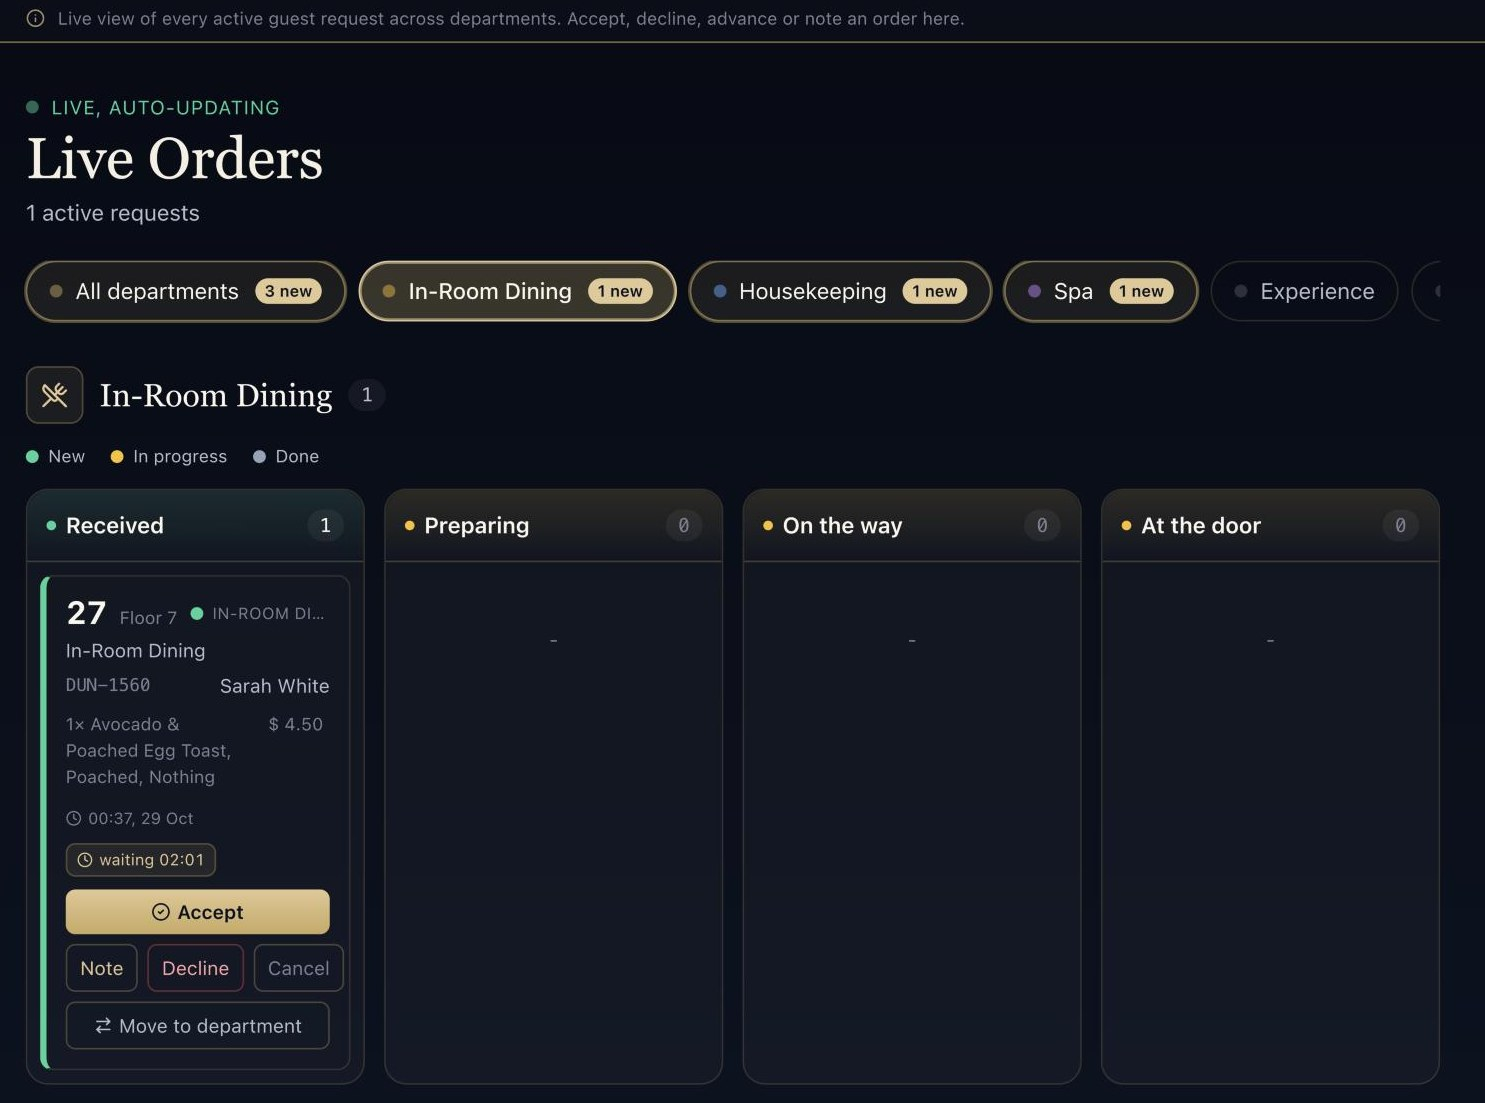
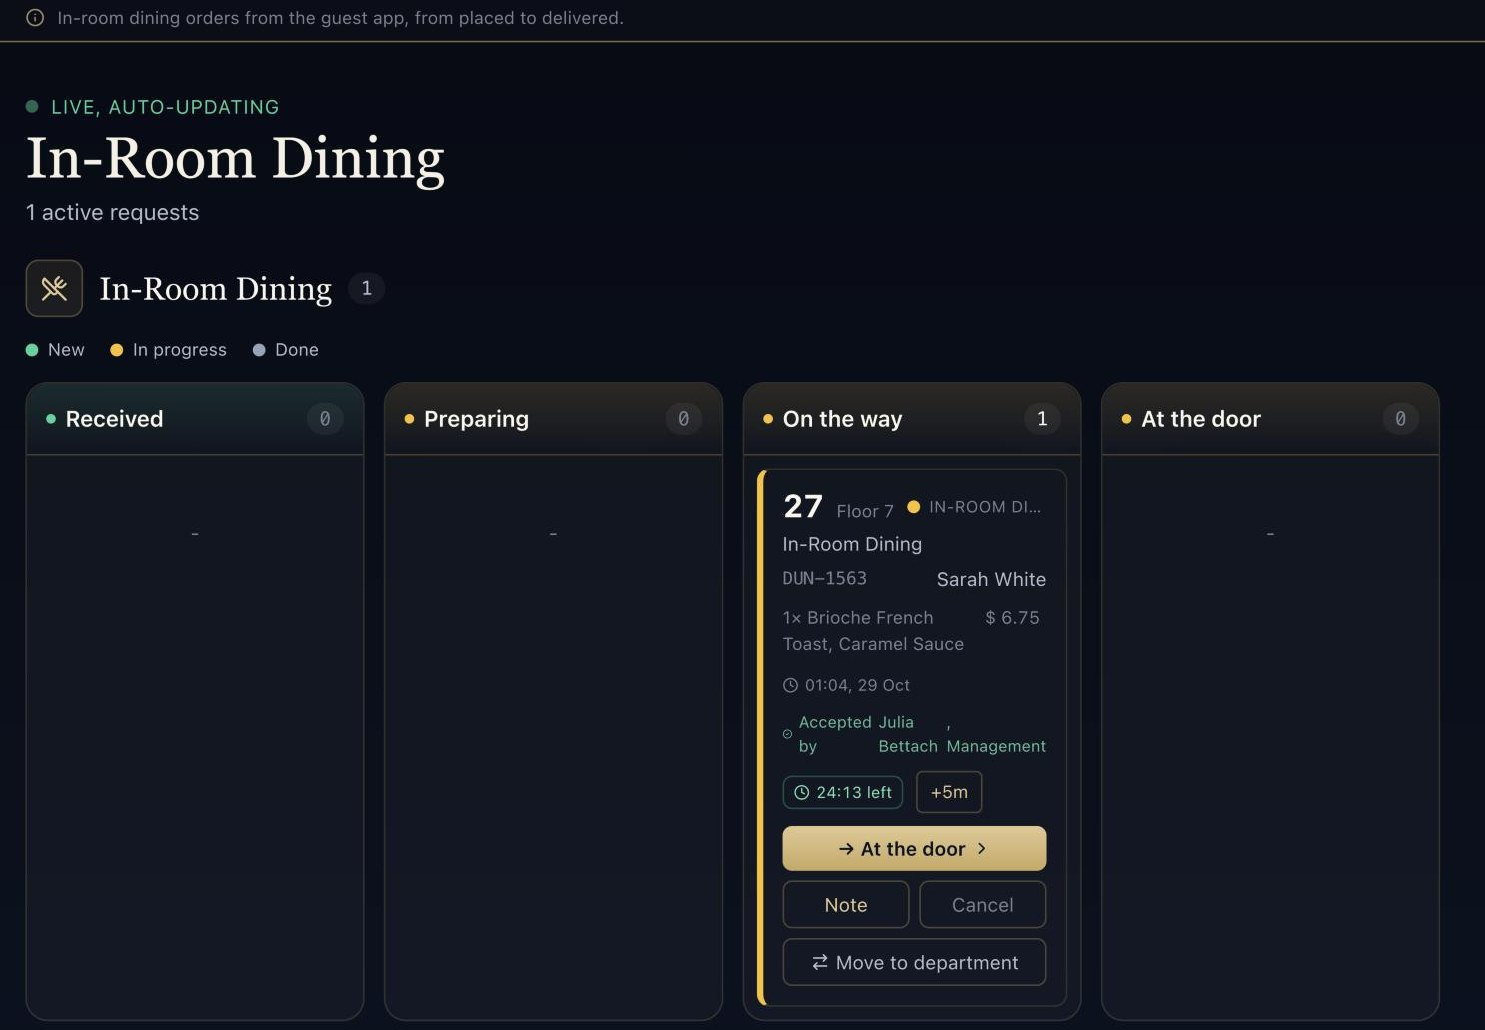
Site: board and phone show the same order, on its way
Claude-Session: https://claude.ai/code/session_01BAeu638aTjcH62ZiHJjqt9

diff --git a/index.html b/index.html
@@ -75,7 +75,7 @@
 
 <section style="padding:0 0 20px"><div class="pw" style="max-width:1240px">
   <div class="duo">
-    <a class="tile-b black" href="venues.html"><span class="eyebrow">For hotels</span><h2 class="d3">Run the whole hotel from one screen.</h2><p>Every department, request, stay and bill, live.</p><div class="btns"><span class="b-link">Butlr for hotels</span></div><div class="art"><div class="screen flat"><img src="assets/portal/f-board.jpg" alt="A department board in the Butlr Portal" width="1485" height="1103" loading="lazy"></div></div></a>
+    <a class="tile-b black" href="venues.html"><span class="eyebrow">For hotels</span><h2 class="d3">Run the whole hotel from one screen.</h2><p>Every department, request, stay and bill, live.</p><div class="btns"><span class="b-link">Butlr for hotels</span></div><div class="art"><div class="screen flat"><img src="assets/portal/f-board.jpg" alt="A department board in the Butlr Portal" width="1485" height="1030" loading="lazy"></div></div></a>
     <a class="tile-b mist" href="app.html"><span class="eyebrow">For travelers</span><h2 class="d3">Your whole stay, in your hand.</h2><p>Order, message, follow your bill, book your next stay.</p><div class="btns"><span class="b-link">Butlr for travelers</span></div><div class="art"><div class="phones"><div class="phone-f "><img src="assets/tour/stay.jpg" alt="Your stay" width="640" height="1391" loading="lazy"></div><div class="phone-f "><img src="assets/tour/ontheway.jpg" alt="Following an order" width="640" height="1391" loading="lazy"></div></div></div></a>
   </div>
 </div></section>
@@ -84,7 +84,7 @@
   <span class="eyebrow">The Thread</span>
   <h2 class="d2">A tap on the guest&rsquo;s phone.<br>Live on your team&rsquo;s screen.</h2>
   <p class="lead">The guest orders, and it lands on the right department before a phone could have rung. The team accepts, and the guest watches it happen.</p>
-  <div class="stage"><div class="screen"><img src="assets/portal/f-board.jpg" alt="An order on the kitchen's live board" width="1485" height="1103" loading="lazy"></div><div class="phone-f "><img src="assets/tour/ontheway.jpg" alt="The same order on the guest's phone" width="640" height="1391" loading="lazy"></div></div>
+  <div class="stage"><div class="screen"><img src="assets/portal/f-board.jpg" alt="An order on the kitchen's live board" width="1485" height="1030" loading="lazy"></div><div class="phone-f "><img src="assets/tour/ontheway-dining.jpg" alt="The same order on the guest’s phone, on its way" width="640" height="1391" loading="lazy"></div></div>
   <div class="stage-cut"></div>
 </div></section>
 

diff --git a/venues.html b/venues.html
@@ -52,7 +52,7 @@
   <h1 class="d1">Run the whole hotel<br>from one screen.</h1>
   <p class="lead">Your team works in the Portal. Your guests use the App. Every request moves between them, live.</p>
   <div class="btns" style="justify-content:center"><a class="b-pill" href="https://wa.me/447553773576?text=Hello%20Butlr%2C%20I%E2%80%99d%20like%20a%20live%20walkthrough%20for%20my%20hotel." target="_blank" rel="noopener">Book a live walkthrough</a><a class="b-link" href="#how">See how it works</a></div>
-  <div class="stage rise"><div class="screen"><img src="assets/portal/f-board.jpg" alt="A new order arriving on a department board in the Butlr Portal" width="1485" height="1103"></div><div class="phone-f "><img src="assets/tour/ontheway.jpg" alt="The guest following an order in the Butlr app" width="640" height="1391"></div></div>
+  <div class="stage rise"><div class="screen"><img src="assets/portal/f-board.jpg" alt="A new order arriving on a department board in the Butlr Portal" width="1485" height="1030"></div><div class="phone-f "><img src="assets/tour/ontheway-dining.jpg" alt="The same order on the guest’s phone, on its way" width="640" height="1391"></div></div>
   <div class="stage-cut"></div>
 </div></header>
 
